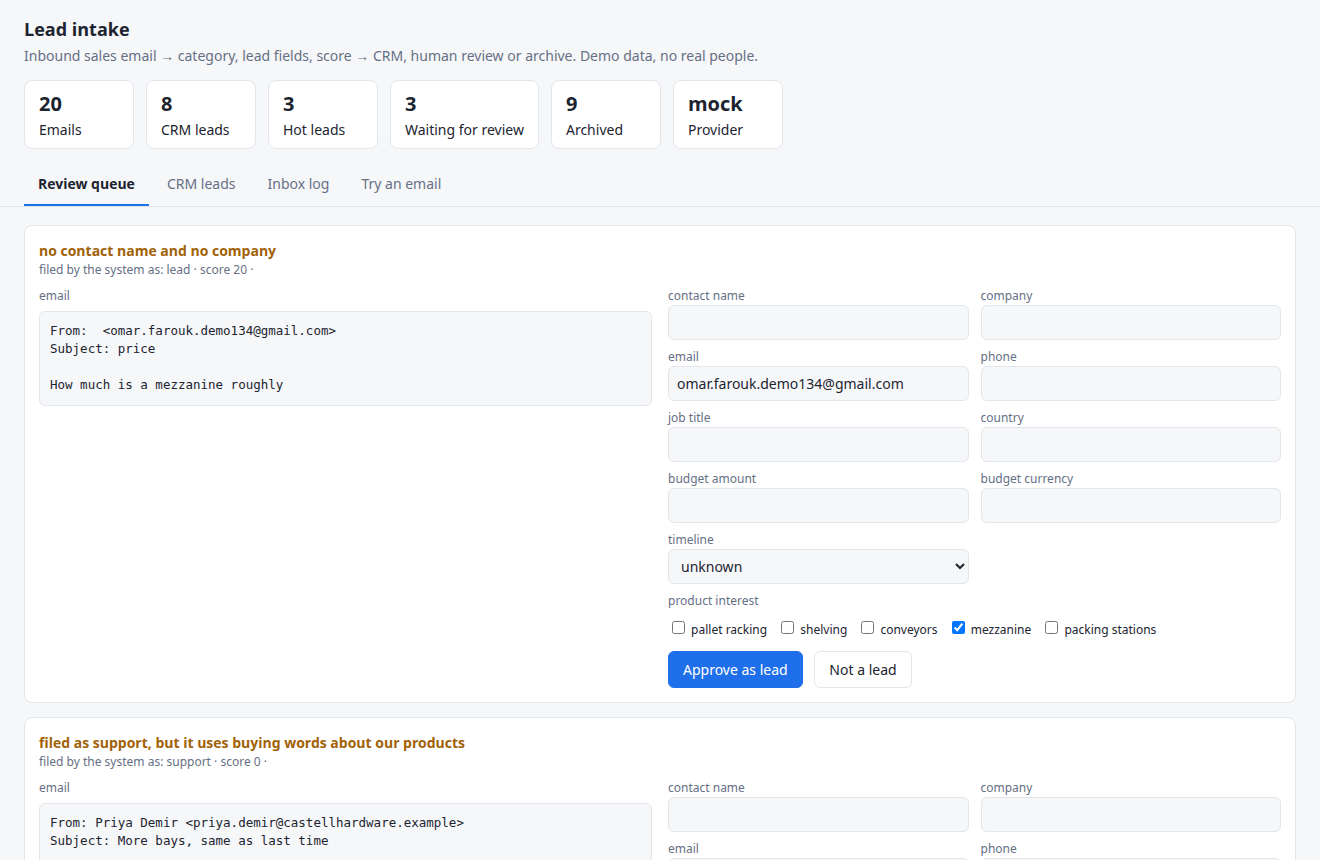
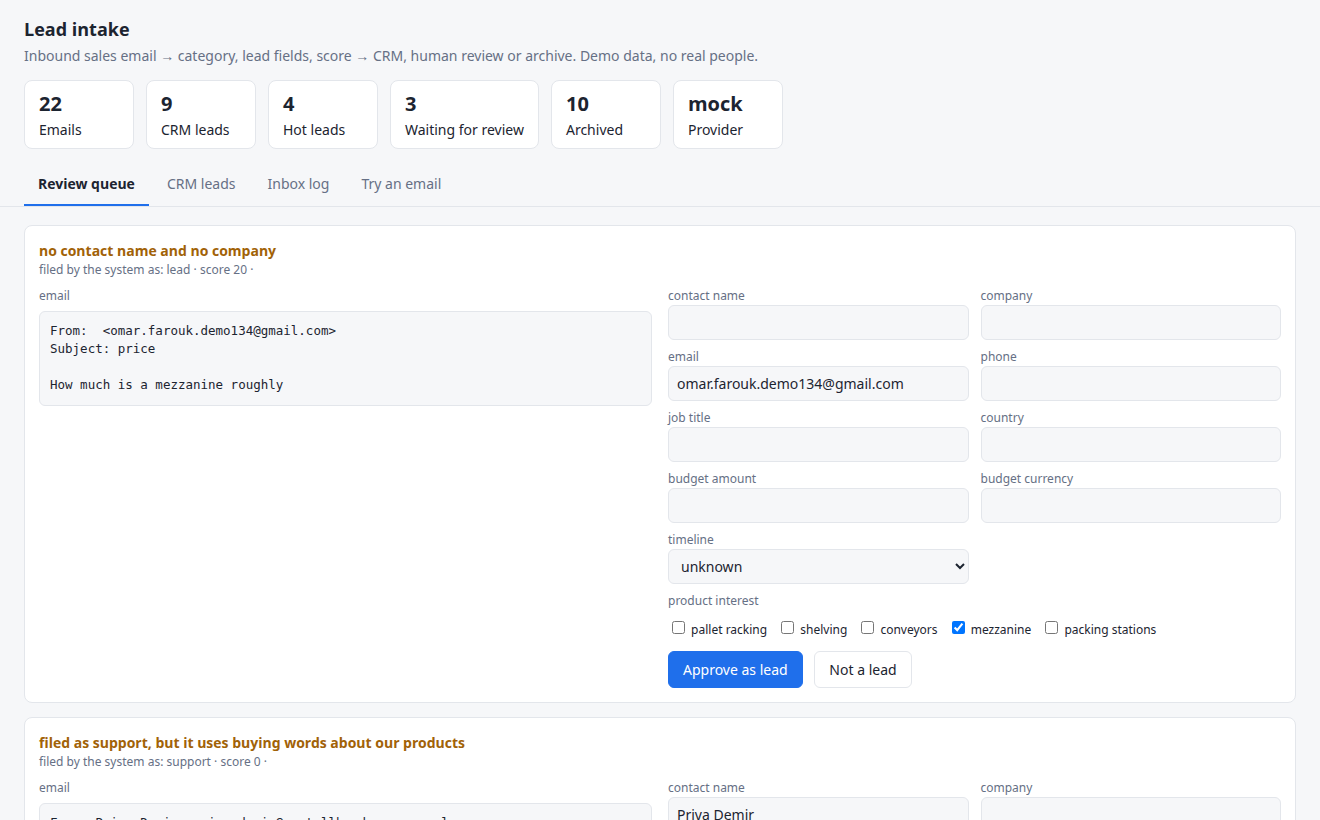
Grounding checks the sender's own words only: values from a quoted older message no longer pass

diff --git a/lead_intake/analyze.py b/lead_intake/analyze.py
@@ -7,7 +7,7 @@ from .config import OWN_DOMAIN, Settings
 from .llm import PRODUCT_WORDS, Provider
 from .schema import Analysis, EmailIn, LeadFields
 from .scoring import score_lead
-from .textutil import EMAIL_RE, amounts, digits, norm
+from .textutil import EMAIL_RE, amounts, digits, norm, unquoted
 
 # Wording that addresses the software instead of a person. It does not block anything by
 # itself; it adds a flag, and a flagged lead is never filed without a person looking.
@@ -15,6 +15,7 @@ INSTRUCTION_RE = re.compile(r"ignore (all |any )?(previous|prior|above) instruct
                             r"classify this (message|email) as|mark (it|this) as (a )?(hot|lead)", re.I)
 # Signs that a sender may want to buy. Used only to catch a lead the model filed elsewhere.
 BUYING_RE = re.compile(r"\b(quote|quotation|pricing|prices?|how much|devis|we need|interested in|what would (this|that) cost)\b", re.I)
+PLACEHOLDERS = {"unknown", "n/a", "na", "none", "null", "not provided", "not stated", "not specified", "-"}
 IDENTITY_FIELDS = ("contact_name", "company", "email", "phone")
 SOFT_FIELDS = ("job_title", "country")
 
@@ -26,19 +27,24 @@ def ground(lead: LeadFields, email: EmailIn) -> tuple[LeadFields, list[str], lis
     wrong contact in the CRM is worse than an empty one, so a value that cannot be found in
     the text is removed. For the fields that identify the person this also raises a flag.
     """
-    text, flags, notes = norm(email.text()), [], []
+    # Only what the sender wrote counts. A reply often quotes our own newsletter underneath, with
+    # our phone number and country in it, and those must not end up on the customer's record.
+    own_words = unquoted(email.body)
+    text, flags, notes = norm(f"{email.from_name} <{email.from_email}>\n{email.subject}\n{own_words}"), [], []
     values = lead.model_dump()
     for name in IDENTITY_FIELDS + SOFT_FIELDS:
         value = values[name]
+        if isinstance(value, str) and norm(value) in PLACEHOLDERS:
+            values[name] = value = None  # small models write "unknown" where the schema allows null
         if not value:
             continue
-        found = digits(value) in digits(email.body) if name == "phone" else norm(value) in text
+        found = digits(value) in digits(own_words) if name == "phone" else norm(value) in text
         if not found:
             values[name] = None
             notes.append(f"removed {name} '{value}': not found in the email")
             if name in IDENTITY_FIELDS:
                 flags.append(f"ungrounded:{name}")
-    if values["budget_amount"] is not None and not any(abs(v - values["budget_amount"]) < 0.01 for v, _, _ in amounts(email.body)):
+    if values["budget_amount"] is not None and not any(abs(v - values["budget_amount"]) < 0.01 for v, _, _ in amounts(own_words)):
         notes.append(f"removed budget {values['budget_amount']:g}: no such amount in the email")
         flags.append("ungrounded:budget_amount")
         values["budget_amount"] = values["budget_currency"] = None

diff --git a/tests/test_analyze.py b/tests/test_analyze.py
@@ -82,3 +82,17 @@ def test_non_leads_carry_no_score(settings, mock):
     email = EmailIn(from_email="a@acme.example", subject="Application for Sales Coordinator", body="My CV is attached.")
     a = analyze(email, mock, settings)
     assert (a.category, a.score, a.route) == ("job_application", 0, "archive")
+
+
+def test_values_from_a_quoted_older_message_do_not_count(settings):
+    """Found in the evaluation: a model took the country and phone from our own quoted newsletter."""
+    email = EmailIn(from_name="Ann Lee", from_email="ann@acme.example", subject="Re: Autumn offers",
+                    body="We need 40 bays of shelving at Acme Ltd. Can someone send prices?\n\nAnn Lee\n\n"
+                         "On Tue, 6 Oct 2026 at 09:00, Meridian <news@meridian-we.example> wrote:\n"
+                         "> Call our sales team on +44 20 7946 0000.\n> Manchester, United Kingdom")
+    provider = FakeProvider(contact_name="Ann Lee", company="Acme Ltd", country="United Kingdom", phone="+44 20 7946 0000",
+                            job_title="unknown", product_interest=["shelving"])
+    a = analyze(email, provider, settings)
+    assert a.lead.country is None and a.lead.phone is None and a.lead.job_title is None
+    assert a.flags == ["ungrounded:phone"] and a.route == "review"
+    assert not any("job_title" in note for note in a.notes)  # a placeholder is not reported as an invented value
